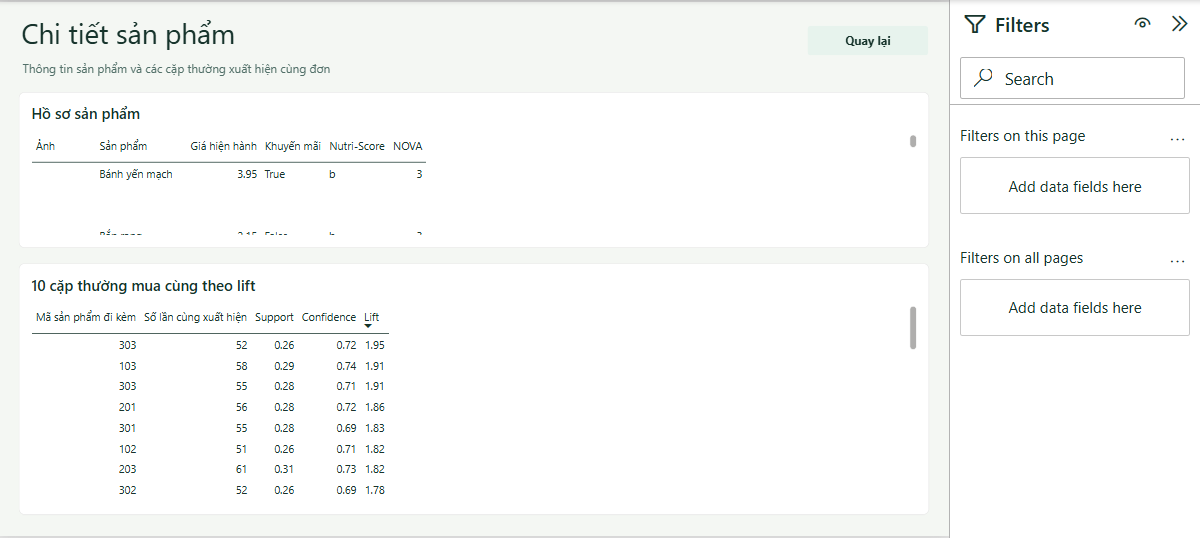
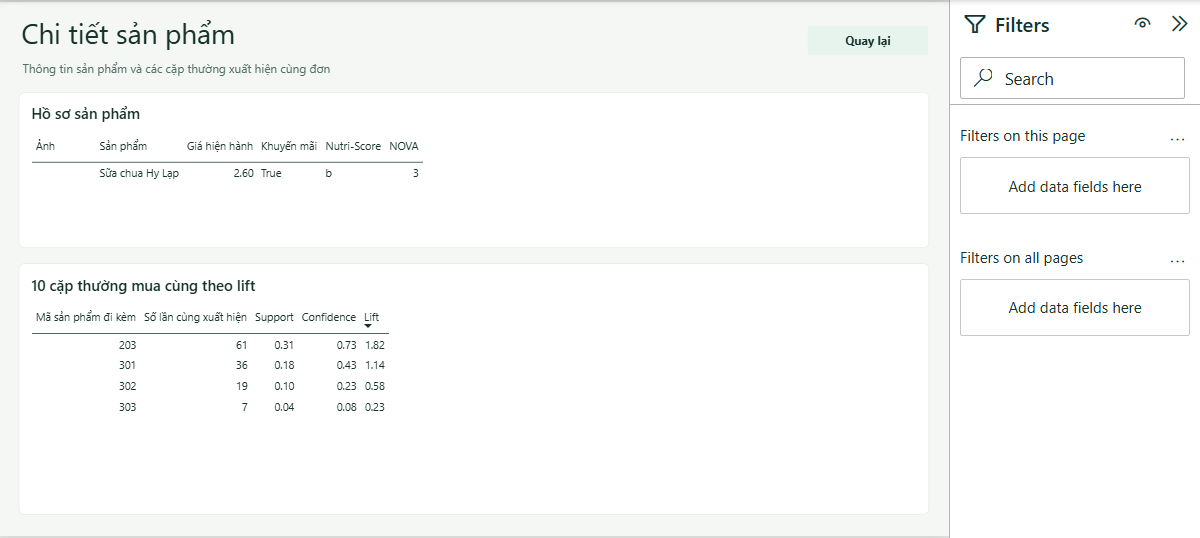
docs(bi): verify sample drill-through and bookmarks

diff --git a/powerbi/evidence/sample-desktop/README.md b/powerbi/evidence/sample-desktop/README.md
@@ -9,7 +9,7 @@ Desktop đã tải mẫu và DAX trả **200 đơn**, **696 món**.
 | --- | --- | --- |
 | Tổng quan | [Ảnh](desktop-overview.png) | [Ảnh](mobile-overview.png) |
 | Chi tiết sản phẩm | [Ảnh](desktop-product.png) | [Ảnh](mobile-product.png) |
-| Thời gian mua | [Ảnh](desktop-shopping-time.png) | [Ảnh](mobile-shopping-time.png) |
+| Thời gian mua | [Theo giờ](desktop-shopping-time.png), [Theo tuần](desktop-weekly.png) | [Ảnh](mobile-shopping-time.png) |
 | Danh mục | [Ảnh](desktop-category.png) | [Ảnh](mobile-category.png) |
 | Vận hành | [Ảnh](desktop-operations.png) | [Ảnh](mobile-operations.png) |
 
@@ -17,6 +17,10 @@ Các số độ trễ là dữ liệu minh họa. Mẫu `eastasia` có p50/p95 l
 341,5/405,85 ms và mẫu `koreacentral` có 581,5/645,85 ms.
 Thẻ đơn trong 5 phút gần nhất để trống vì timestamp mẫu nằm ngoài
 khoảng thời gian này lúc chụp.
+
+Hai bookmark chuyển qua lại giữa ma trận thứ × giờ và biểu đồ tuần ISO.
+Từ Danh mục, drill-through trên dòng sản phẩm 202 mở trang Chi tiết chỉ với
+sản phẩm đã chọn và các cặp liên quan. Ảnh sản phẩm cần nguồn Gold thật.
 
 Trong Desktop, **View as → DeptManager** với người dùng hiện tại không có
 ánh xạ trong fixture trả trang Danh mục không có số doanh thu hay sản phẩm.
